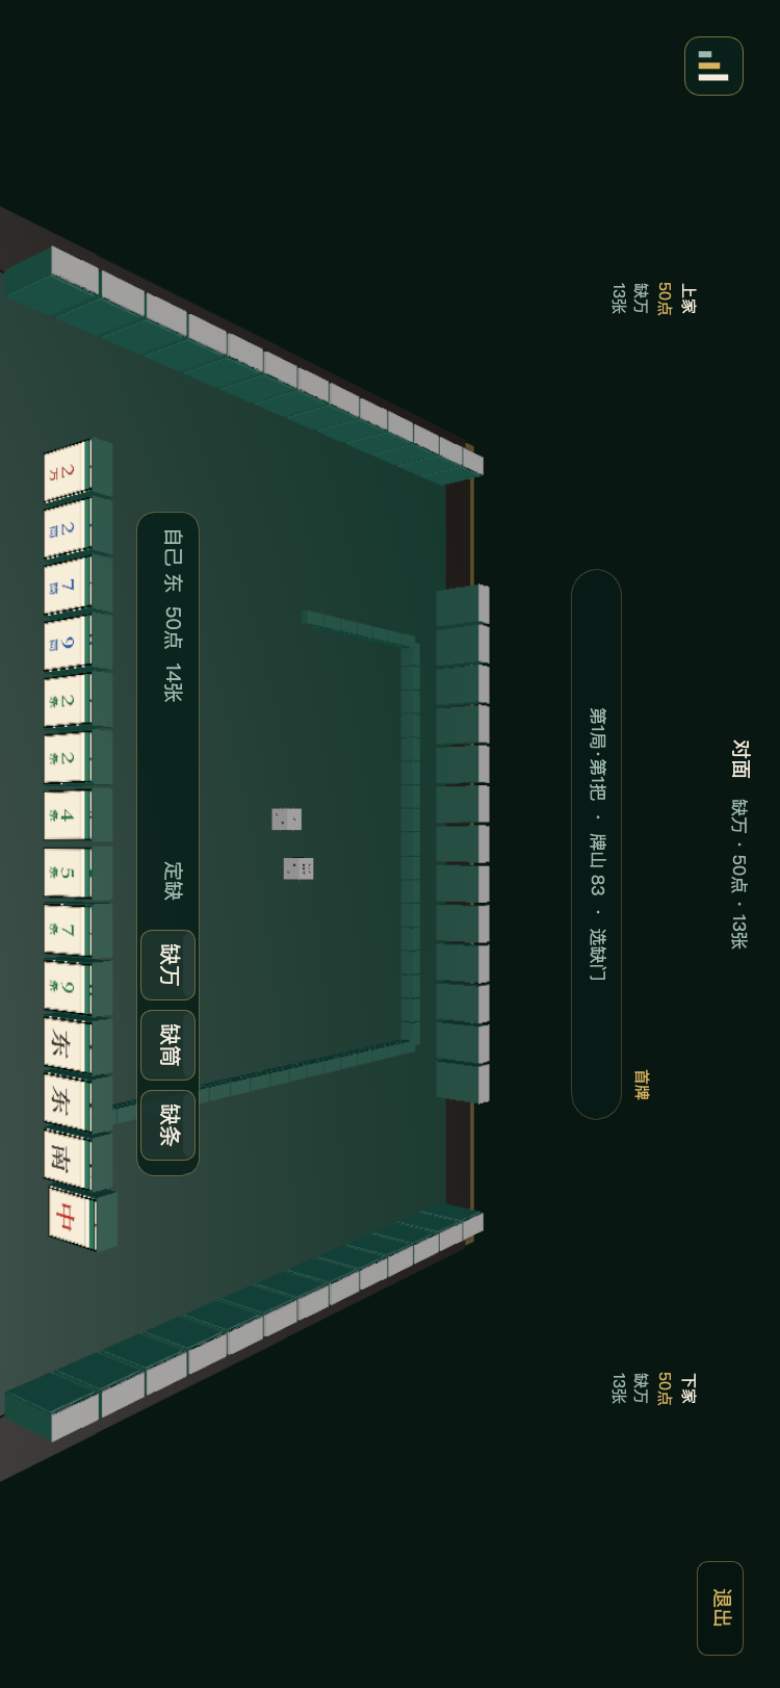
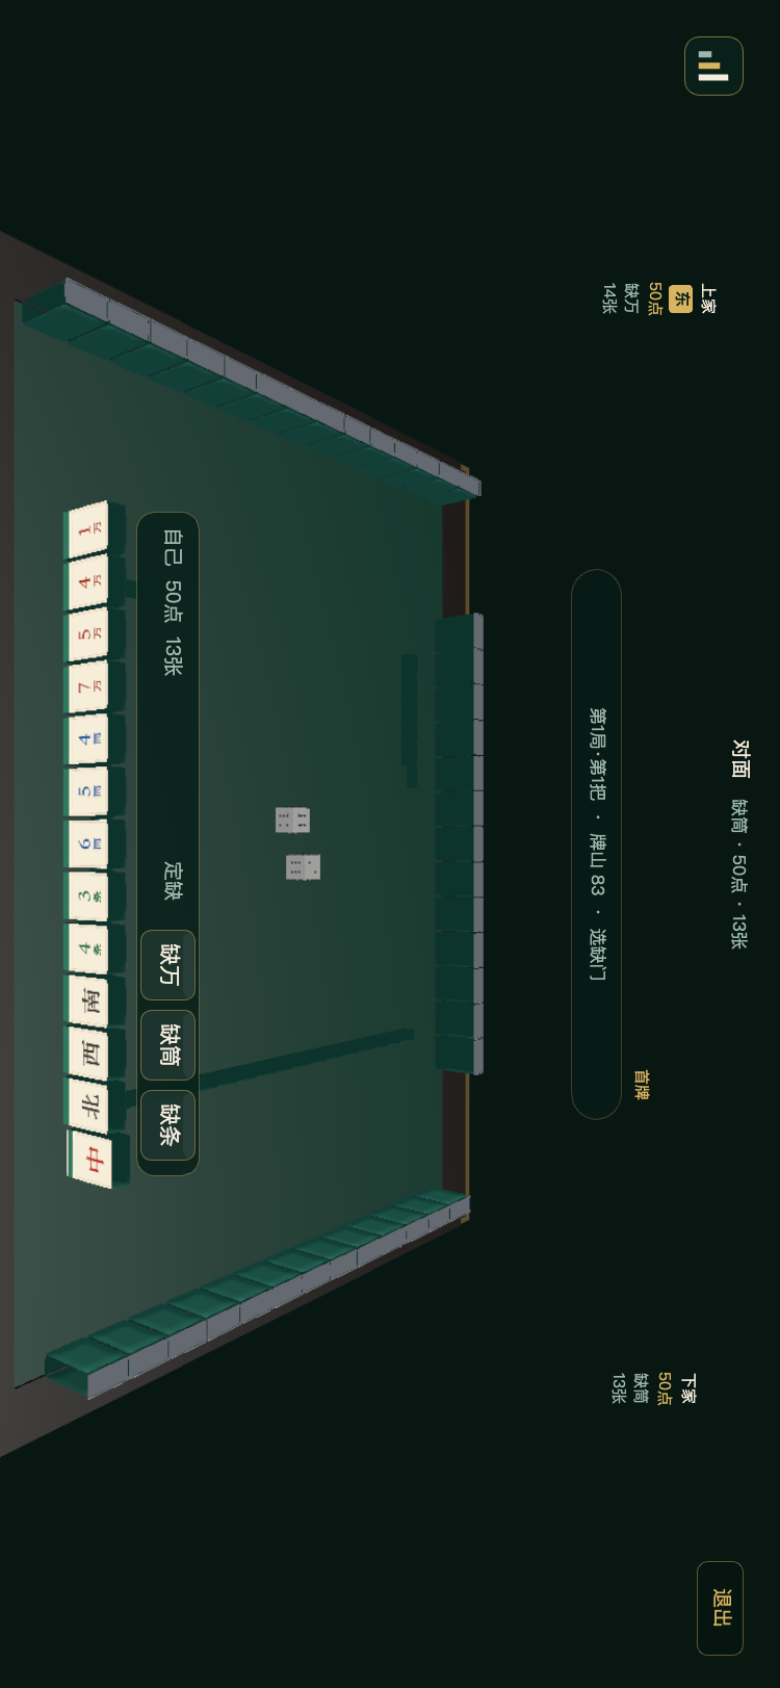
fix(layair): 圆角牌、去除黑边、收紧牌距，结算卡避开对家亮牌
3D 牌体改为八角圆角长方体，牌面不再套黑框；牌与牌只留极小间隙，牌墙也改用圆角网格。3D 结算面板移到贴边位置，让对家亮出的牌面完整可见。

diff --git a/layair/src/ui/Table3D.ts b/layair/src/ui/Table3D.ts
@@ -33,7 +33,7 @@ const SELF_HAND_Z = TABLE_D / 2 - 90
 const WALL_SIDE = 650
 const STACKS = 17
 const WALL_STEP = WALL_SIDE / STACKS
-const WALL_LEN = WALL_STEP - 2
+const WALL_LEN = WALL_STEP - 0.8
 const WALL_THICK = 18
 const WALL_H = 11
 
@@ -71,6 +71,7 @@ export class Table3D {
   private dynamicRoot: Laya.Sprite3D
   private diceRoot: Laya.Sprite3D | null = null
   private faceCache = new Map<string, Laya.Texture2D>()
+  private roundedCache = new Map<string, Laya.Mesh>()
   private bodyCache = new Map<string, Laya.BlinnPhongMaterial>()
   private worldW: number
   private worldH: number
@@ -89,7 +90,7 @@ export class Table3D {
     this.camera.cullingMask = 0xffffffff
     this.camera.nearPlane = 1
     this.camera.farPlane = 4000
-    this.camera.fieldOfView = 37
+    this.camera.fieldOfView = 39
     this.camera.transform.position = new Laya.Vector3(0, 1120, 1200)
     this.camera.transform.rotationEuler = new Laya.Vector3(-37, 0, 0)
 
@@ -132,6 +133,107 @@ export class Table3D {
     this.addBox(70, 16, TABLE_D + 100, COLORS.woodDark, TABLE_W / 2 + 28, -4, 0, this.tableRoot)
     this.addBox(TABLE_W + 120, 10, 32, COLORS.brassDim, 0, -2, -TABLE_D / 2 - 62, this.tableRoot)
     this.addBox(TABLE_W + 120, 10, 32, COLORS.brassDim, 0, -2, TABLE_D / 2 + 62, this.tableRoot)
+  }
+
+  /** 圆角长方体网格：六个面都做圆角，牌摸起来不是刀切豆腐 */
+  private roundedMesh(w: number, h: number, d: number, radius: number): Laya.Mesh {
+    const r = Math.max(0.2, Math.min(radius, Math.min(w, h, d) / 2 - 0.01))
+    const key = `${w.toFixed(1)}x${h.toFixed(1)}x${d.toFixed(1)}x${r.toFixed(1)}`
+    const cached = this.roundedCache.get(key)
+    if (cached) return cached
+
+    const seg = 4
+    const halfX = w / 2
+    const halfY = h / 2
+    const halfZ = d / 2
+    const coreX = Math.max(0, halfX - r)
+    const coreY = Math.max(0, halfY - r)
+    const coreZ = Math.max(0, halfZ - r)
+    const verts: number[] = []
+    const idx: number[] = []
+
+    // t × b = n，保证从外面看是逆时针
+    const faces: Array<{
+      n: [number, number, number]
+      t: [number, number, number]
+      b: [number, number, number]
+      halfN: number
+      halfT: number
+      halfB: number
+    }> = [
+      { n: [0, 0, 1], t: [1, 0, 0], b: [0, 1, 0], halfN: halfZ, halfT: halfX, halfB: halfY },
+      { n: [0, 0, -1], t: [-1, 0, 0], b: [0, 1, 0], halfN: halfZ, halfT: halfX, halfB: halfY },
+      { n: [1, 0, 0], t: [0, 0, -1], b: [0, 1, 0], halfN: halfX, halfT: halfZ, halfB: halfY },
+      { n: [-1, 0, 0], t: [0, 0, 1], b: [0, 1, 0], halfN: halfX, halfT: halfZ, halfB: halfY },
+      { n: [0, 1, 0], t: [1, 0, 0], b: [0, 0, -1], halfN: halfY, halfT: halfX, halfB: halfZ },
+      { n: [0, -1, 0], t: [1, 0, 0], b: [0, 0, 1], halfN: halfY, halfT: halfX, halfB: halfZ }
+    ]
+
+    for (const face of faces) {
+      const base = verts.length / 8
+      for (let j = 0; j <= seg; j += 1) {
+        for (let i = 0; i <= seg; i += 1) {
+          const u = (i / seg) * 2 - 1
+          const v = (j / seg) * 2 - 1
+          const x = face.n[0] * face.halfN + face.t[0] * u * face.halfT + face.b[0] * v * face.halfB
+          const y = face.n[1] * face.halfN + face.t[1] * u * face.halfT + face.b[1] * v * face.halfB
+          const z = face.n[2] * face.halfN + face.t[2] * u * face.halfT + face.b[2] * v * face.halfB
+          const cx = Math.max(-coreX, Math.min(coreX, x))
+          const cy = Math.max(-coreY, Math.min(coreY, y))
+          const cz = Math.max(-coreZ, Math.min(coreZ, z))
+          let dx = x - cx
+          let dy = y - cy
+          let dz = z - cz
+          let len = Math.sqrt(dx * dx + dy * dy + dz * dz)
+          if (len < 0.00001) {
+            dx = face.n[0]
+            dy = face.n[1]
+            dz = face.n[2]
+          } else {
+            dx /= len
+            dy /= len
+            dz /= len
+          }
+          verts.push(cx + dx * r, cy + dy * r, cz + dz * r, dx, dy, dz, i / seg, j / seg)
+        }
+      }
+      for (let j = 0; j < seg; j += 1) {
+        for (let i = 0; i < seg; i += 1) {
+          const a = base + j * (seg + 1) + i
+          const b = a + 1
+          const c = a + seg + 2
+          const d = a + seg + 1
+          idx.push(a, b, c, a, c, d)
+        }
+      }
+    }
+
+    const declaration = Laya.VertexMesh.getVertexDeclaration('POSITION,NORMAL,UV')
+    const mesh = Laya.PrimitiveMesh._createMesh(declaration, new Float32Array(verts), new Uint16Array(idx))
+    mesh.calculateBounds()
+    this.roundedCache.set(key, mesh)
+    return mesh
+  }
+
+  private addRounded(
+    w: number,
+    h: number,
+    d: number,
+    radius: number,
+    material: Laya.Material,
+    x: number,
+    y: number,
+    z: number,
+    parent: Laya.Sprite3D,
+    rotX = 0,
+    rotY = 0
+  ): Laya.MeshSprite3D {
+    const node = new Laya.MeshSprite3D(this.roundedMesh(w, h, d, radius))
+    node.meshRenderer.sharedMaterial = material
+    node.transform.position = new Laya.Vector3(x, y, z)
+    node.transform.rotationEuler = new Laya.Vector3(rotX, rotY, 0)
+    parent.addChild(node)
+    return node
   }
 
   private addBox(
@@ -192,13 +294,10 @@ export class Table3D {
       ctx.fillRect(3, 3, w - 6, h - 6)
     }
 
-    // 黑缝 + 牌面描边
-    ctx.strokeStyle = '#06100C'
-    ctx.lineWidth = 5
-    ctx.strokeRect(2.5, 2.5, w - 5, h - 5)
-    ctx.strokeStyle = 'rgba(143,120,82,0.62)'
-    ctx.lineWidth = 2
-    ctx.strokeRect(7, flat ? 7 : 35, w - 14, h - (flat ? 14 : 43))
+    // 不再画黑框：牌与牌之间靠 3D 间隙和圆角分隔
+    ctx.strokeStyle = 'rgba(143,120,82,0.32)'
+    ctx.lineWidth = 1.5
+    ctx.strokeRect(5.5, flat ? 5.5 : 33.5, w - 11, h - (flat ? 11 : 39))
 
     const honor = tile.length === 1 && HONOR_COLOR[tile] !== undefined
     const suit = honor ? '字' : tile.charAt(1)
@@ -241,25 +340,34 @@ export class Table3D {
     parent.addChild(group)
 
     const bodyColor = faceUp ? '#2F7A5E' : '#2F7A5E'
-    const body = new Laya.MeshSprite3D(Laya.PrimitiveMesh.createBox(TILE_W, TILE_H, TILE_T))
-    body.meshRenderer.sharedMaterial = this.bodyMaterial(bodyColor)
-    group.addChild(body)
+    this.addRounded(TILE_W, TILE_H, TILE_T, 4.5, this.bodyMaterial(bodyColor), 0, 0, 0, group)
 
     if (faceUp) {
-      const face = new Laya.MeshSprite3D(Laya.PrimitiveMesh.createBox(TILE_W - 3, TILE_H - 3, 1.6))
-      face.transform.position = new Laya.Vector3(0, 0, TILE_T / 2 + 0.8)
-      face.meshRenderer.sharedMaterial = this.faceMaterial(this.faceTexture(tile, false))
-      group.addChild(face)
+      this.addRounded(
+        TILE_W - 3.5,
+        TILE_H - 3.5,
+        1.7,
+        0.85,
+        this.faceMaterial(this.faceTexture(tile, false)),
+        0,
+        0,
+        TILE_T / 2 + 0.9,
+        group
+      )
     } else {
       // 牌背：白顶 + 绿色牌背，牌背朝相机
-      const top = new Laya.MeshSprite3D(Laya.PrimitiveMesh.createBox(TILE_W, 3, TILE_T))
-      top.transform.position = new Laya.Vector3(0, TILE_H / 2 - 1.5, 0)
-      top.meshRenderer.sharedMaterial = this.bodyMaterial(COLORS.ivory)
-      group.addChild(top)
-      const back = new Laya.MeshSprite3D(Laya.PrimitiveMesh.createBox(TILE_W - 3, TILE_H - 8, 2))
-      back.transform.position = new Laya.Vector3(0, -2, TILE_T / 2 + 0.7)
-      back.meshRenderer.sharedMaterial = this.bodyMaterial('#3C9374')
-      group.addChild(back)
+      this.addRounded(TILE_W, 3, TILE_T, 1.2, this.bodyMaterial(COLORS.ivory), 0, TILE_H / 2 - 1.5, 0, group)
+      this.addRounded(
+        TILE_W - 3.5,
+        TILE_H - 8,
+        1.7,
+        0.85,
+        this.bodyMaterial('#3C9374'),
+        0,
+        -2,
+        TILE_T / 2 + 0.8,
+        group
+      )
     }
   }
 
@@ -270,14 +378,20 @@ export class Table3D {
     group.transform.rotationEuler = new Laya.Vector3(0, rotationY, 0)
     parent.addChild(group)
 
-    const body = new Laya.MeshSprite3D(Laya.PrimitiveMesh.createBox(FLAT_W, 11, FLAT_D))
-    body.meshRenderer.sharedMaterial = this.bodyMaterial(COLORS.ivory)
-    group.addChild(body)
-
-    const face = new Laya.MeshSprite3D(Laya.PrimitiveMesh.createBox(FLAT_W - 2, 1.6, FLAT_D - 2))
-    face.transform.position = new Laya.Vector3(0, 6.2, 0)
-    face.meshRenderer.sharedMaterial = this.faceMaterial(this.faceTexture(tile, true))
-    group.addChild(face)
+    this.addRounded(FLAT_W, 11, FLAT_D, 3.6, this.bodyMaterial(COLORS.ivory), 0, 0, 0, group)
+    // 用竖牌面板绕 X 轴翻平，正面贴图自然朝上
+    this.addRounded(
+      FLAT_W - 3,
+      FLAT_D - 3,
+      1.7,
+      0.8,
+      this.faceMaterial(this.faceTexture(tile, true)),
+      0,
+      6.4,
+      0,
+      group,
+      -90
+    )
     return group
   }
 
@@ -293,11 +407,11 @@ export class Table3D {
           if (seat === 2 || seat === 0) {
             const x = -half + i * WALL_STEP + WALL_STEP / 2
             const z = seat === 2 ? -half : half
-            this.addBox(WALL_LEN, WALL_H, WALL_THICK, '#2F7A5E', x, y, z, this.dynamicRoot)
+            this.addRounded(WALL_LEN, WALL_H, WALL_THICK, 1.8, this.bodyMaterial('#2F7A5E'), x, y, z, this.dynamicRoot)
           } else {
             const x = seat === 3 ? -half : half
             const z = -half + i * WALL_STEP + WALL_STEP / 2
-            this.addBox(WALL_THICK, WALL_H, WALL_LEN, '#2F7A5E', x, y, z, this.dynamicRoot)
+            this.addRounded(WALL_THICK, WALL_H, WALL_LEN, 1.8, this.bodyMaterial('#2F7A5E'), x, y, z, this.dynamicRoot)
           }
         }
       }
@@ -311,7 +425,7 @@ export class Table3D {
     drawnIndex = -1
   ) {
     if (!tiles.length) return
-    const step = Math.min(66, 900 / Math.max(1, tiles.length))
+    const step = Math.min(TILE_W + 2, 940 / Math.max(1, tiles.length))
     const startX = -((tiles.length - 1) * step) / 2
     for (let i = 0; i < tiles.length; i += 1) {
       const tile = tiles[i]
@@ -332,7 +446,7 @@ export class Table3D {
 
   private addMelds(seat: number, player: HandState['players'][number]) {
     if (!player.melds.length) return
-    const flatGap = FLAT_W + 3
+    const flatGap = FLAT_W + 1.6
     let cursor = 0
     for (const meld of player.melds) {
       const tiles = meldTiles(meld)
@@ -371,18 +485,18 @@ export class Table3D {
       let z = 0
       let rotation = 0
       if (seat === 0) {
-        x = -maxCols * (FLAT_W + 4) / 2 + col * (FLAT_W + 4)
-        z = 120 - row * (FLAT_D + 4)
+        x = -maxCols * (FLAT_W + 4) / 2 + col * (FLAT_W + 2)
+        z = 60 - row * (FLAT_D + 2)
       } else if (seat === 2) {
-        x = maxCols * (FLAT_W + 4) / 2 - col * (FLAT_W + 4)
-        z = -210 + row * (FLAT_D + 4)
+        x = maxCols * (FLAT_W + 4) / 2 - col * (FLAT_W + 2)
+        z = -210 + row * (FLAT_D + 2)
       } else if (seat === 3) {
         x = -230
-        z = -200 + col * (FLAT_W + 4)
+        z = -200 + col * (FLAT_W + 2)
         rotation = 90
       } else {
         x = 230
-        z = 200 - col * (FLAT_W + 4)
+        z = 200 - col * (FLAT_W + 2)
         rotation = -90
       }
       const node = this.addFlatTile(tile, x, z, this.dynamicRoot, rotation)

diff --git a/layair/src/ui/TableView.ts b/layair/src/ui/TableView.ts
@@ -1716,17 +1716,24 @@ export class TableView {
     const bigWin = !!win?.score.bigWin.isBigWin
     const showMoneyRow = gameOver || bigWin
     const pointLines = win ? win.score.details.filter(line => gameOver || !/(元|应付)/.test(line)) : []
-    const detailCount = Math.min(pointLines.length, m.landscape ? 4 : gameOver ? 8 : 7)
+    const detailCount = Math.min(pointLines.length, this.is3D() ? 3 : m.landscape ? 4 : gameOver ? 8 : 7)
     const detailUnit = m.landscape ? 12 : 15
 
+    const side3D = this.is3D()
     const panelW = Math.round(
-      m.landscape ? Math.min(m.boardW * 0.5, this.u(300)) : Math.min(m.boardW * 0.68, this.u(380))
+      side3D
+        ? Math.min(m.boardW * 0.3, this.u(250))
+        : m.landscape
+          ? Math.min(m.boardW * 0.5, this.u(300))
+          : Math.min(m.boardW * 0.68, this.u(380))
     )
-    const px = Math.round(m.boardW / 2 - panelW / 2)
+    let px = side3D
+      ? Math.round(m.boardW - panelW - this.u(12))
+      : Math.round(m.boardW / 2 - panelW / 2)
 
     if (!win) {
       const panelH = this.u(110)
-      const py = Math.round(m.boardH / 2 - panelH / 2)
+      const py = side3D ? Math.round(m.boardY + this.u(8)) : Math.round(m.boardH / 2 - panelH / 2)
       const panel = makePanel(panelW, panelH, this.u(14), 'rgba(8,30,24,0.97)', 'rgba(217,180,95,0.4)', 1.5)
       panel.pos(px, py)
       this.content.addChild(panel)
@@ -1752,7 +1759,12 @@ export class TableView {
     const panelH = Math.round(Math.min(maxH, this.u(used)))
     const winnerSeat = win.seat
     let py = Math.round(m.boardH / 2 - panelH / 2)
-    if (m.landscape) {
+    if (side3D) {
+      // 3D：结果卡贴边放，给对家亮出的牌面让出中央
+      const sideRight = winnerSeat !== 1
+      px = sideRight ? Math.round(m.boardW - panelW - this.u(12)) : Math.round(this.u(12))
+      py = Math.round(m.boardY + this.u(8))
+    } else if (m.landscape) {
       // 横屏：面板始终夹在牌墙上方和操作条之间，四家的亮牌都不会被挡
       py = Math.round(m.ringY + Math.max(0, (maxH - panelH) / 2))
     }

diff --git a/layair/README.md b/layair/README.md
@@ -36,12 +36,12 @@
 - **局流程**：一局 50 点，点数被付完本局结束，弹总账（本局 / 累计），可开下一局；四把调圈逻辑保留在 `table.ts`。
 - **3D 牌桌**：桌面、木沿、牌墙、四家手牌 / 副露 / 牌河、两颗骰子全部是 3D 网格；固定相机在本家后上方，近大远小，本家手牌最大、对家最小。3D 场景先渲染到 `RenderTexture`，再铺到 2D 根节点，所以竖屏旋转时 3D 画面和 2D 按钮 / 文字会一起转。
 - **2D 交互层**：按钮、提示、战绩 / 结算面板仍然是 2D；手牌点击区域由 3D 世界坐标投影回 2D，可打 / 禁打 / 必须打缺门仍用 2D 描边。最后打出的牌只在 3D 牌河上套黄色描边，不再显示“刚打某家”。
-- **更小的中央提示**：中间只保留一条窄状态条，不再用大面板挡住牌河；成 / 杠 / 碰 / 过按钮收进底部操作条。
+- **更小的中央提示**：中间只保留一条窄状态条，不再用大面板挡住牌河；成 / 杠 / 碰 / 过按钮收进底部操作条。3D 结算卡贴右上/左上放，给对家亮出的牌面让出中央。
 - **骰子**：两颗 3D 骰子，滚动时大、落定后缩小；不再显示 2D 骰子。
-- **3D 牌面**：牌是带厚度的 3D 盒体，牌面文字由 Canvas 生成贴图；本家牌面朝向相机，对家 / 左右家背面朝相机，亮牌时翻到正面。
+- **3D 牌面**：牌是带厚度的 3D 圆角长方体（12 条棱、8 个角都做圆弧），牌面文字由 Canvas 生成贴图；牌与牌之间只留极小间隙，不再每张牌套一圈黑边。本家牌面朝向相机，对家 / 左右家背面朝相机，亮牌时翻到正面。
 - **累计战绩 / 存档**：左上角图表图标打开累计战绩（每家成牌次数、成牌点数、大/小摸子、输赢金额）。右上角退出会询问「保留并退出 / 清空并退出」；保留会把当前牌局和战绩写入 LayaAir / 微信本地存储，下次进入从当前继续；清空等于重置。
-- **牌墙**：摸走哪一层就空哪一层；两层牌之间、相邻墩之间都留黑缝；只剩上层/只剩下层时只占半格高度，墙上会留下真实的缺口。
-- **手牌**：四家手牌之间留黑缝，既有分隔又不会散开。
+- **牌墙**：摸走哪一层就空哪一层；两层牌之间、相邻墩之间留细小间隙；只剩上层/只剩下层时只占半格高度，墙上会留下真实的缺口。
+- **手牌**：四家手牌紧挨排列，牌体圆角、间隙极小，既有分隔又不会散开。
 - **界面**：深毡绿牌桌、象牙牌面、黄铜描边、朱红骰点；按钮保留牌面/描边两种质感。
 
 ## 目录
